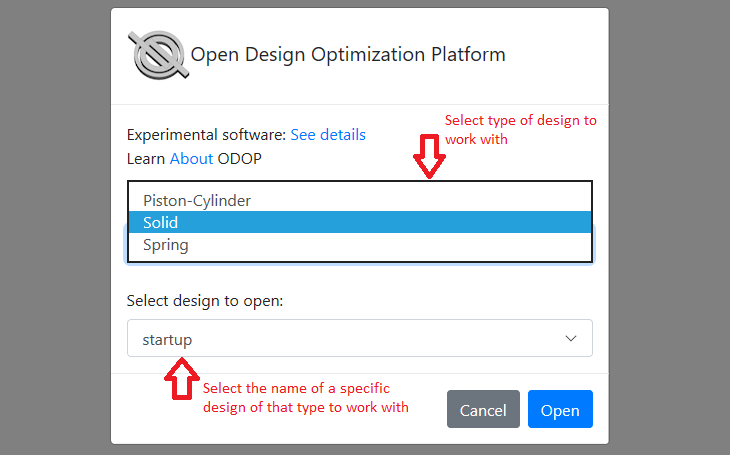
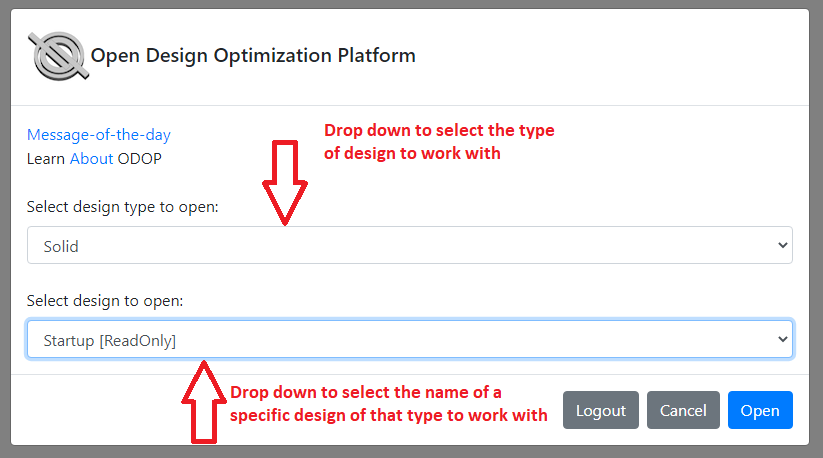
292  Continue Help & doc updates after 3.2 release
Add content, update images

diff --git a/docs/Help/launchODOP.md b/docs/Help/launchODOP.md
@@ -7,7 +7,7 @@ is recommended.
 Where a wide screen monitor is in use, 
 it should be possible to view both the program and on-line Help entries 
 simultaneously in separate windows.
-See: [Utilizing Help with a widescreen monitor](wideScreen) for additional details.
+See: [Utilizing on-line Help with a widescreen monitor](wideScreen) for additional details.
 
 If a wide screen monitor is not available, 
 you can operate with this Help content in one
@@ -16,18 +16,34 @@ This approach will permit rapid switching from this Help content in order
 to view the corresponding part of the program user interface
 (ODOP main page).
 
-In order to start the ODOP software, 
+In order to start the ODOP software in **this** browser window (or tab), 
 follow this link:   
 
-[Launch ODOP](https://odop.herokuapp.com)
+[Launch ODOP](https://odop.herokuapp.com)   
 
 Alternatively, copy this address (URL):   
 
 **https://odop.herokuapp.com**
 
-and paste it into the address field of a different browser window.   
- 
- 
+and paste it into the address field of a different browser window (or tab).   
+  
+&nbsp;
+
+There may be a delay of approximately 20 seconds the first time that the software is launched.
+If you are not currently signed in, a sign-in screen will appear.   
+A user account with associated username and password 
+is required to access the ODOP:Spring software.
+See: [User Accounts](..\About\userAccounts) for details on
+how to obtain an account.   
+![Sign-in screen](./png/SignInWidgetExpanded.png "Sign-in screen")  
+  
+&nbsp;
+
+Once logged in, you will reach a screen where it is possible to select 
+a design type and a starting design.   
+
+![Select design type and starting design](./png/SelectSolid.png "Select design type and starting design")
+  
 &nbsp;
 
 To continue, use your browser's **Back** button to return to the previous page now.

diff --git a/docs/Help/gettingStartedSpring.md b/docs/Help/gettingStartedSpring.md
@@ -25,13 +25,14 @@ If you haven't seen it already, the
 provides an important conceptual introduction to the overall design process within ODOP.   
 
 Before continuing with the material below, 
-please confirm that the program is running and that the Compression Spring design type is loaded.
+please confirm that the ODOP program is running in a browser window 
+and that the Compression Spring design type is loaded.
 You should see Independent Variables like OD\_Free, Wire\_Dia and L\_Free.
 If you see the Independent Variables of the Rectangular Solid design type 
 (Length, Width and Height),
-simply confirm that the browser tab containing the program is currently active, 
-click your browser's refresh button and then click the **Open** button to 
-switch to the default design type (Spring/Compression) with the default design (Startup).  
+simply click the refresh button of the window containing the ODOP program 
+and then click the **Open** button to switch to the default design type (Spring/Compression) 
+with the default design (Startup).  
 
 Tutorial sessions teach operation of the program.
 Use the **Help : Tutorial...** menu item to select the desired tutorial session.   
